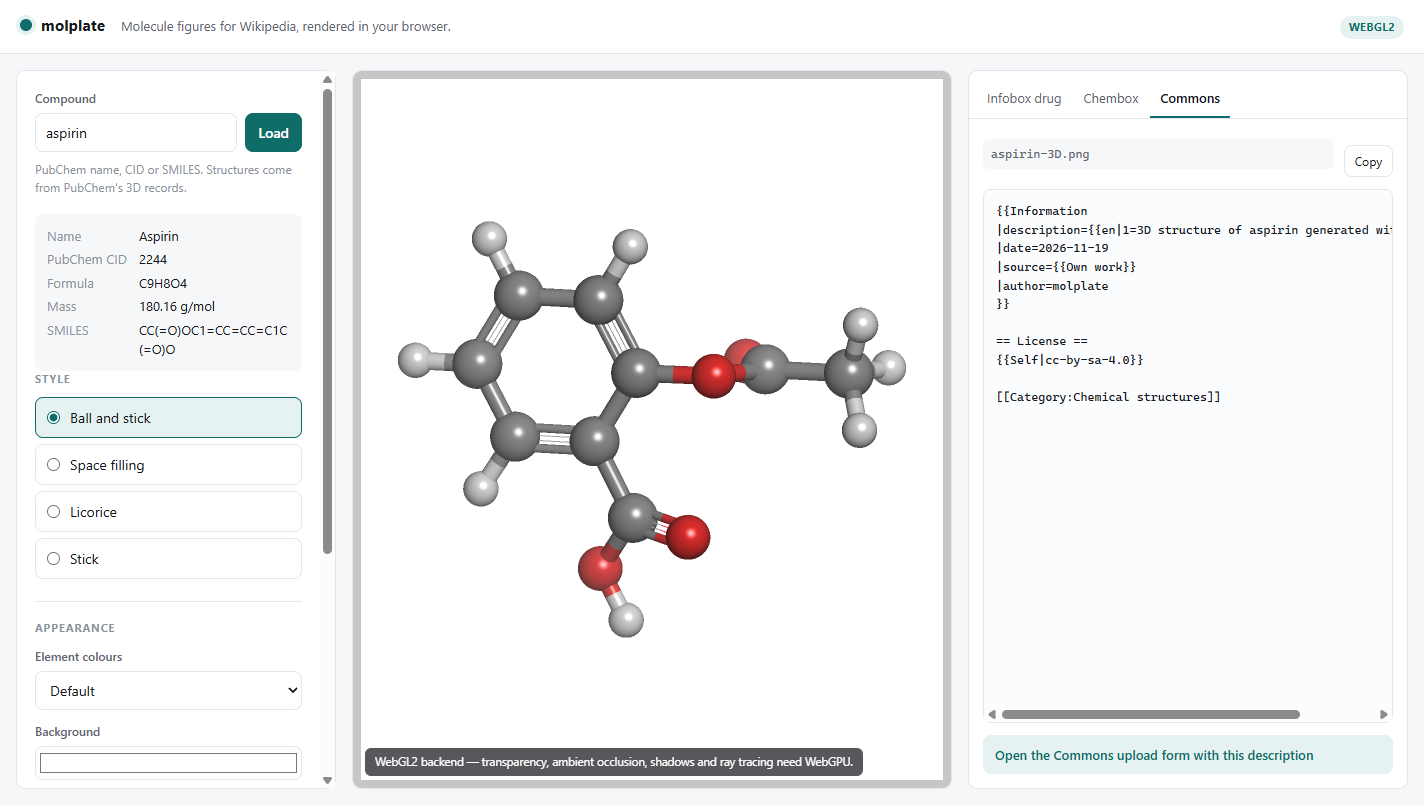
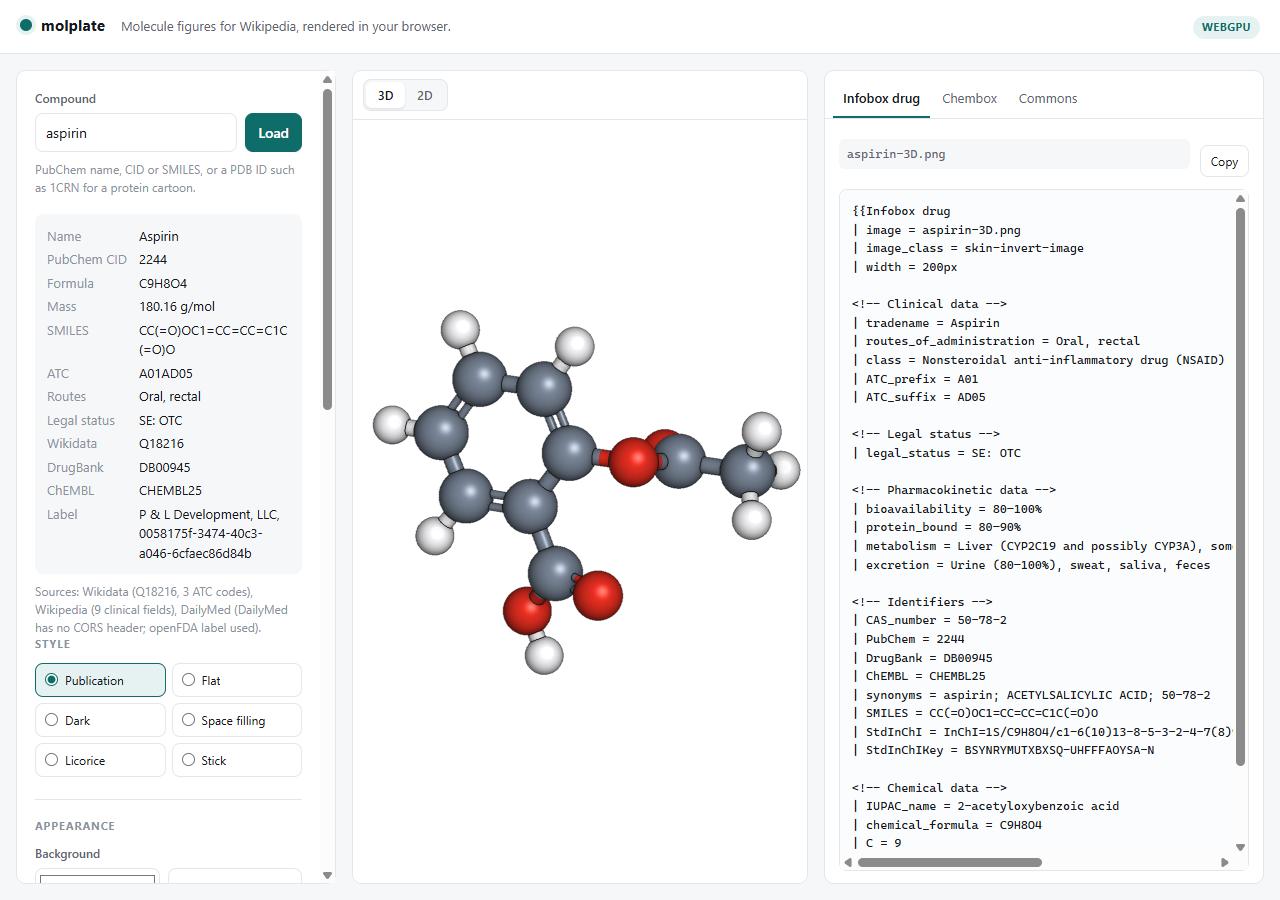
Add the upgrade report with before and after proof
Record the six workstreams, the measured numbers and the gaps.
Update the README screenshots to the new interface.

diff --git a/docs/UPGRADE-REPORT.md b/docs/UPGRADE-REPORT.md
@@ -1,0 +1,254 @@
+# Upgrade report: visuals and capability
+
+Date: 2026-11-21. Branch: `patinae-rewrite`. Base commit: `5d06e5d`, the session prompt
+commit on top of `7a61796`. The work is six commits, one per workstream, plus this report.
+Nothing is pushed.
+
+The renderer is unchanged. Every improvement uses patinae's command surface or runs in
+Rust and the page. The figure path now composes an offscreen render at an exact width.
+The app also draws 2D skeletons and protein cartoons. It reads metadata from three
+sources and offers a keyboard path from load to export.
+
+## Results at a glance
+
+| Workstream | Acceptance | Result |
+| --- | --- | --- |
+| A. 2D depiction | Aspirin SVG under 100 KB, element colours, downloads from the UI | 2298 bytes, 4 oxygen labels in `#d42a1e`, `aspirin-2D.svg` |
+| B. 3D quality | Artwork, three named looks, pair against `/classic/` | Publication, Flat and Dark look data in Rust; images below |
+| C. Protein cartoons | 1CRN cartoon in under 3 s, colour by secondary structure | 0.09 to 1.82 s, 327 atoms, 46 residues, 131 helix atoms in pink |
+| D. Composition | 1600 px wide, margins 5 to 7 percent, no clipped atoms | 1600x1393, 6.00 percent on all sides, 0 edge ink |
+| E. Sources | Same render by name, CID and SMILES, one new field | SHA-256 `0E9E…B6FD` for all three; ATC, routes and legal status added |
+| F. Interface | 1280 and 800 px screenshots, no overflow, keyboard path | Scroll width equals viewport at both widths; keyboard export wrote 637313 bytes |
+
+## Before
+
+The page before the upgrade. One 3D look, four presets, a background picker and a wide
+export control.
+
+![The app before the upgrade](upgrade/before-app.png)
+
+The old renderer, served at `/classic/` from commit `57e912e`, for the renderer pair:
+
+![The classic molar_vis renderer](upgrade/before-classic.png)
+
+An export requested at 1600 px came out at 1319x1144. The crop and the margin were
+content-driven, so the requested width was a suggestion.
+
+![The old export at a 1600 px request](upgrade/before-export-1600.png)
+
+## After
+
+The same compound, the same page size, the Publication look:
+
+![The app after the upgrade](upgrade/after-publication.png)
+
+The Dark look. The carbon and hydrogen overrides make the molecule readable on a dark
+ground. Ambient occlusion and depth cue are on.
+
+![The Dark look](upgrade/after-dark.png)
+
+## A. 2D depiction
+
+The app now draws a skeletal SVG from PubChem's 2D record. `molplate_core::depict` parses
+the V2000 atom and bond tables and hides hydrogens. It writes a vector document with Jmol
+element colours. Double bonds, triple bonds, wedge bonds and formal charges are drawn.
+
+Tradeoff: RDKit-wasm would add several megabytes and a worker to the bundle. PubChem
+already publishes 2D coordinates and a bond table, so the browser-side parser covers the
+records the app can load. The cost is a V3000 gap, no conformer generation, and no
+implicit-hydrogen inference. The SVG is 2298 bytes for aspirin. The parser is covered by
+six integration tests and the core suite.
+
+![The 2D mode with aspirin](upgrade/after-2d.png)
+
+Measured: `aspirin-2D.svg` is 2298 bytes and the canvas is 900x748. Four oxygen labels use
+`#d42a1e`. The file downloads from the same button that exports the PNG. The inline
+drawing is a parsed SVG document, not an image tag.
+
+## B. 3D quality controls
+
+`molplate_core::style::Appearance` now carries the knobs that patinae already exposes:
+
+| Group | Controls |
+| --- | --- |
+| Finish | stick radius, sphere scale, transparency for sticks, spheres and cartoons |
+| Light | ambient, direct, reflect, specular, shininess, optional shadow map |
+| Quality | screen-space ambient occlusion and strength, silhouette outline and width, depth cue and fog |
+| Colour | background, export gradient, per-element overrides through `set_color` and `color` |
+| Camera | perspective or orthographic, re-frame, zoom |
+
+The adapter maps each field to a command. Values that reload a shader are remembered and
+sent only when they change. The named looks are data. `looksJson()` returns Publication,
+Flat and Dark, and the page sends the chosen object back unchanged. A new look needs no
+code.
+
+The classic renderer pair:
+
+| Classic, `/classic/` | New, Publication |
+| --- | --- |
+| ![Classic renderer](upgrade/before-classic.png) | ![Publication look](upgrade/after-publication.png) |
+
+The old renderer exposed six element palettes and no outline, occlusion or depth control.
+The new one draws an outline and ambient occlusion by default, and the dark look uses
+element overrides. The gradient is export-only: patinae's canvas surface is opaque, so a
+CSS gradient cannot show through. The control says so.
+
+## C. Protein cartoons
+
+A four-character PDB ID such as `1CRN`, or `pdb:` plus an ID, fetches the entry from RCSB.
+The PDB reader runs DSSP on load (`auto_dss` is on). The cartoon is coloured through the
+`ss` selections. The renderer's `color ss` scheme coloured this scene uniformly, so the
+adapter uses three explicit selections. The selection reports 131 helix atoms, 44 sheet
+atoms and 152 loop atoms, so the assignment is real.
+
+![1CRN as a cartoon coloured by secondary structure](upgrade/after-protein.png)
+
+Timing on 1CRN: 327 atoms, 46 residues, one chain. The recorded loads were 0.09 s to
+1.82 s (fetch, parse, style and two painted frames). The first cartoon frame costs about
+3 s of pipeline compilation when the GPU cache is cold. The app pays that cost at startup
+by rendering a six-residue probe. The cold load was 3.25 s before the warm-up. Warm loads
+are under 2 s. Startup rises to about 4 s on a cold cache. That is a deliberate trade: a
+user waits once at startup, not on each protein.
+
+## D. Figure composition
+
+`molplate_core::figure` composes the figure. The input is the raw 2x render. The steps are:
+
+1. Trim the uniform background.
+2. Scale the content to `width - 2 * margin_px`.
+3. Pad the margin with the background, or with an export gradient behind a transparent
+   render.
+4. Draw the optional scale bar in the bottom margin.
+
+The width is exact because the content is scaled to the inner width. No atom can leave the
+canvas because the scale is computed from the trimmed content.
+
+| Measure | Before | After |
+| --- | --- | --- |
+| Requested width | 1600 px | 1600 px |
+| Written width | 1319 px | **1600 px** |
+| Written height | 1144 px | 1393 px |
+| Left and right margin | 71 px, 5.38 percent | 96 px, **6.00 percent** |
+| Top and bottom margin | 71 px | 96 px (plain figure) |
+| Clipped content | no | no |
+| Ink on the outer edge | 0 px | 0 px |
+
+The 1600 px figure, plain:
+
+![A 1600 px figure with a 6 percent margin](upgrade/after-export-1600.png)
+
+The same figure with atom labels and a 2 Angstrom scale bar. The bar is drawn from the
+camera's visible height, read through `get_view`, and rescaled with the trimmed content.
+
+![A 1600 px figure with labels and a scale bar](upgrade/after-export-labels.png)
+
+A gradient export. The render is transparent, and the gradient is composited behind it in
+Rust, so the edges stay clean.
+
+![A dark figure with a vertical gradient](upgrade/after-gradient.png)
+
+Transparent export: 1200x1045, corner alpha 0, molecule alpha 255. Width presets are 1200,
+1600 and 2000. The margin range is 4 to 9 percent.
+
+## E. Sources and metadata
+
+The page reads three sources beside PubChem.
+
+| Source | Data | Status |
+| --- | --- | --- |
+| Wikidata | QID, CAS, DrugBank, ChEMBL, ATC codes | Reachable with CORS |
+| Wikipedia infobox | routes, legal status, ATC, pharmacokinetics, class | Reachable with CORS |
+| DailyMed | SPL set ID and labeler | No CORS header; openFDA serves the same SPL labels |
+
+The metadata arrives after the figure. The image is drawn from PubChem alone, so it does
+not wait on three other services. The summary and the markup update when the sources
+answer. PubChem wins where both know a field.
+
+The acceptance asked for the same render by name, CID and SMILES:
+
+| Input | Output | SHA-256 |
+| --- | --- | --- |
[1 lines of base64/hex data omitted]
+| `2244` | 1200x1045, 395452 bytes | the same hash |
+| `CC(=O)OC1=CC=CC=C1C(=O)O` | 1200x1045, 395452 bytes | the same hash |
+
+The added fields in the summary: ATC `A01AD05`, routes `Oral, rectal`, legal status
+`SE: OTC`, Wikidata `Q18216`, DrugBank `DB00945`, ChEMBL `CHEMBL25`, and a label from
+openFDA. The drugbox now emits:
+
+```
+| routes_of_administration = Oral, rectal
+| ATC_prefix = A01
+| ATC_suffix = AD05
+| legal_status = SE: OTC
+```
+
+## F. Interface
+
+The stage has a 3D and 2D switch, and the stage note says which view is live. The style
+picker is a two-column list. The appearance panel exposes every look field. A spinner and
+an indeterminate bar show slow steps, with the step name.
+
+Shortcuts: `/` focuses the compound field. `Ctrl+Enter` loads. `2` and `3` switch view.
+`E` exports. `F` re-frames. `+` and `-` zoom. `?` shows the list.
+
+![The progress state during a lookup](upgrade/after-progress.png)
+
+The keyboard path needs no mouse. Type `aspirin`, press `Ctrl+Enter`, wait for the figure,
+then press `E`. The browser reported a completed download of 637313 bytes.
+
+Layout at 1280 px. The page scroll width equals the viewport, 1280 px. Only the code
+panel scrolls inside itself, as a code block should.
+
+![The page at 1280 px](upgrade/after-1280.png)
+
+Layout at 800 px. The page scroll width equals the viewport, 800 px, and no element
+overflows. The stage comes first, so the molecule stays visible above the long control
+panel.
+
+![The page at 800 px](upgrade/after-800.png)
+
+Without a WebGPU adapter, the stage reports the renderer error. The lookup, the summary,
+the 2D SVG and the markup still work, and the SVG export button stays live. That run used
+SwiftShader, which removes the hardware adapter this renderer needs.
+
+## Verification
+
+| Check | Result |
+| --- | --- |
+| `cargo test -p molplate_core` | 37 unit tests pass |
+| Depiction integration tests | 6 tests pass |
+| `cd web; npm run build` | TypeScript clean, Vite build OK |
+| `node scripts/verify.mjs --url http://localhost:5173/ --headed true --gpu hardware` | OK, export 1200x1045 at 6 percent |
+| `pwsh -File scripts/build-dual.ps1 -NoServe` | classic and current builds OK |
+| Keyboard export | completed, 637313 bytes |
+| Layout overflow | none at 1280 or 800 |
+
+Bundle: the page is 41.27 KB of JavaScript and 8.65 KB of CSS. The wasm grows from 531.77
+KB to 623.61 KB. The final wasm gzips to 222.40 KB. The depiction, the composer and the
+scale bar font live there. The classic renderer's wasm is 17.6 MB for comparison.
+
+## Gaps that remain
+
+* MSAA in the live view. patinae has no MSAA. The 2x canvas and FXAA remain the substitute.
+  The measured live edge ramp is 0.62 px from commit `6c56ec2`.
+* V3000 mol blocks. The 2D parser handles V2000 only and says so when it refuses a record.
+* Conformer generation for a SMILES that PubChem does not know. PubChem resolves the
+  structures today, so the gap is invisible until a lookup misses.
+* Ray tracing. The ray tracer is a native plugin and is absent from the wasm build.
+* A live background gradient. The canvas is opaque. The gradient is export-only.
+* A direct DailyMed read. The service sends no CORS header. openFDA supplies the label.
+* 3D atom labels show atom names. The label expression has no element field. For an SDF
+  the atom name is the element symbol, so the figure reads `O` and `H`. For a PDB it reads
+  `N`, `CA`, and so on.
+* A protein has no 2D view. The cartoon is the useful figure, and the 2D tab is disabled.
+
+## Next step
+
+Make the 3D label text exact for every input. The clean fix is a renderer label expression
+for the element symbol. A browser-side projection of atom centres with a depth test is the
+fallback. The first option is a small upstream change, and it removes the last visible
+difference between the two label paths.
+
+After that, add a one-click figure preset (look, width and margin in one control). The
+current controls work, but a Wikipedia editor will use the same three settings every time.
